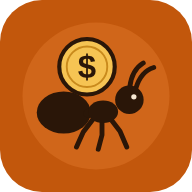
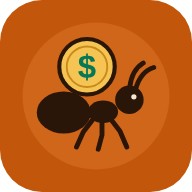
Widget hormiga-micrófono, Gastos hormiga, cerrar sesión, contraseñas en Uso y $ verde (#21)
Claude-Session: https://claude.ai/code/session_016cg8dd4dRaJGxtFR3145BN

Changed region(s): [[0.4062, 0.2812, 0.5, 0.4375]]

diff --git a/db.js b/db.js
@@ -1,6 +1,6 @@
 // Guardado local en el teléfono (IndexedDB). Funciona sin internet.
 const DB = (() => {
-  const NOMBRE = 'finanzas', VERSION = 4;
+  const NOMBRE = 'finanzas', VERSION = 5;
 
   // Conceptos iniciales, tomados del Excel de fer. Presupuesto mensual en centavos.
   const CONCEPTOS_INICIALES = [
@@ -14,7 +14,7 @@ const DB = (() => {
     ['medicina', 'Medicina', 'gasto', 'Gastos', 10000, '💊'],
     ['compras', 'Compras', 'gasto', 'Gastos', 5000, '🛍'],
     ['amazon', 'Amazon', 'gasto', 'Gastos', 10000, '📦'],
-    ['otros', 'Otros', 'gasto', 'Gastos', 0, '📌'],
+    ['otros', 'Gastos hormiga', 'gasto', 'Gastos', 0, '🪙'],
     ['luz', 'Luz', 'gasto', 'Servicios', 2000, '💡'],
     ['ahorro', 'Ahorro', 'inversion', 'Ahorro', 0, '🐷'],
     ['juguetes', 'Juguetes', 'inversion', 'Inversiones', 80000, '🧸'],
@@ -63,6 +63,15 @@ const DB = (() => {
     };
   }
 
+  // Versión 5: "Otros" pasa a llamarse "Gastos hormiga" (si no lo renombraste tú).
+  function aGastosHormiga(tx) {
+    const conceptos = tx.objectStore('conceptos');
+    conceptos.get('otros').onsuccess = ev => {
+      const c = ev.target.result;
+      if (c && c.nombre === 'Otros') conceptos.put({ ...c, nombre: 'Gastos hormiga', icono: c.icono === '📌' ? '🪙' : c.icono });
+    };
+  }
+
   let conexion;
 
   function abrir() {
@@ -91,6 +100,7 @@ const DB = (() => {
         }
         if (e.oldVersion === 2) aInversion(tx);
         if (e.oldVersion >= 2 && e.oldVersion < 4) agregarOtros(tx);
+        if (e.oldVersion === 4) aGastosHormiga(tx);
       };
       req.onsuccess = () => resolve(req.result);
       req.onerror = () => reject(req.error);

diff --git a/index.html b/index.html
@@ -17,7 +17,7 @@
     <section id="vista-anotar" class="vista activa">
       <header class="marca-app">
         <img src="icon.svg" alt="">
-        <strong>Hormiga$to$</strong>
+        <strong>Hormiga<span class="dolar">$</span>to<span class="dolar">$</span></strong>
         <small>· Controla tus finanzas</small>
       </header>
       <div class="tipo" role="radiogroup" aria-label="Tipo">
@@ -89,6 +89,7 @@
         <button class="boton-ancho">Guardar y probar</button>
         <p id="voz-estado" class="nota" role="status"></p>
       </form>
+      <button type="button" id="cerrar-sesion" class="boton-ancho peligro" hidden>Cerrar sesión</button>
       <h1 class="titulo">Exportar</h1>
       <p class="nota">Descarga todos los movimientos con las columnas de tu Excel: Fecha, Mes, Tipo, Categoria, Concepto, Presupuesto, Monto.</p>
       <button type="button" id="exportar" class="boton-ancho">Descargar CSV para Excel</button>
@@ -192,7 +193,7 @@
 
   <dialog id="bienvenida">
     <form method="dialog" id="bienvenida-form">
-      <h2>Bienvenido a Hormiga$to$</h2>
+      <h2>Bienvenido a Hormiga<span class="dolar">$</span>to<span class="dolar">$</span></h2>
       <p class="nota">Escribe la contraseña que te dieron para anotar tus gastos hablando. Se pide una sola vez en este teléfono.</p>
       <label>Contraseña
         <input name="clave" type="password" autocomplete="off">

diff --git a/voz.js b/voz.js
@@ -49,7 +49,18 @@ const Voz = (() => {
     f.url.value = a.url;
     f.clave.value = a.clave;
     $('voz-estado').textContent = configurada() ? 'Lista en este teléfono.' : 'Escribe la contraseña de la app y toca Guardar y probar.';
+    $('cerrar-sesion').hidden = !configurada();
   }
+
+  // Cerrar sesión: olvida la contraseña en este teléfono y la vuelve a pedir.
+  // Los movimientos y lo aprendido se quedan.
+  $('cerrar-sesion').addEventListener('click', () => {
+    try { localStorage.removeItem('voz-clave'); localStorage.removeItem('voz-omitida'); } catch { /* sin almacenamiento */ }
+    pintarAjustes();
+    $('bienvenida-form').clave.value = '';
+    $('bienvenida-estado').textContent = '';
+    $('bienvenida').showModal();
+  });
 
   async function guardarAjustes(e) {
     e.preventDefault();

diff --git a/styles.css b/styles.css
@@ -476,6 +476,7 @@ dialog textarea { resize: none; user-select: text; }
 .marca-app img { width: 26px; height: 26px; border-radius: 7px; }
 .marca-app strong { font-size: 16px; letter-spacing: -0.01em; }
 .marca-app small { color: var(--suave); font-size: 12px; }
+.dolar { color: var(--ingreso); }
 
 /* Un animal chiquito en una insignia, como los usuarios anónimos de Google Drive. Sutil a propósito. */
 .bicho {

diff --git a/sw.js b/sw.js
@@ -1,6 +1,6 @@
 // Guarda la app en el teléfono para que abra sin internet.
 // Sube VERSION cada vez que cambie algún archivo.
-const VERSION = 'finanzas-v17';
+const VERSION = 'finanzas-v18';
 const ARCHIVOS = ['./', 'index.html', 'styles.css', 'db.js', 'excel.js', 'graficos.js', 'app.js', 'voz.js',
   'manifest.webmanifest', 'icon.svg', 'icon-192.png', 'icon-512.png'];
 

diff --git a/CLAUDE.md b/CLAUDE.md
@@ -23,3 +23,6 @@
 - Marca (2026-10-27): ícono en el celular "MIG", nombre completo "Hormiga$to$ · Controla tus finanzas". Logo `icon.svg` (hormiga con moneda, fondo naranja); los PNG (web y mipmaps de Android) se sacan de ahí con Playwright. Colores: crema/café/naranja miel de día, verde bosque de noche, hojitas tenues de fondo (`--hojas`). fer pidió diseño serio, no muy animado.
 - Animalitos sutiles (`ANIMAL_TIPO`, `ANIMAL_CONCEPTO`, `animal(c)` en app.js): siempre el mismo animal por tipo y concepto (Otros = hormiga); conceptos nuevos toman uno fijo según su id. Los emojis de los conceptos se mantienen.
 - Primera vez en un teléfono sin contraseña: diálogo «Bienvenido» que la pide (o "Ahora no", guarda `voz-omitida`).
+- Widget y atajo: imagen `drawable-nodpi/widget_hormiga.png` (hormiga con cabeza de micrófono), sacada de `android/widget-hormiga.svg`. El $ de la marca y de la moneda del logo va en verde (`.dolar`).
+- "Otros" se llama "Gastos hormiga" (id `otros`, ícono 🪙; IndexedDB v5 lo renombra si seguía como "Otros").
+- Proyección → "Cerrar sesión" borra `voz-clave` en el teléfono y vuelve a mostrar la bienvenida. En la hoja, menú "Mostrar contraseñas en «Uso»" llena la columna Contraseña (también al agregar persona o cambiar la tuya).
